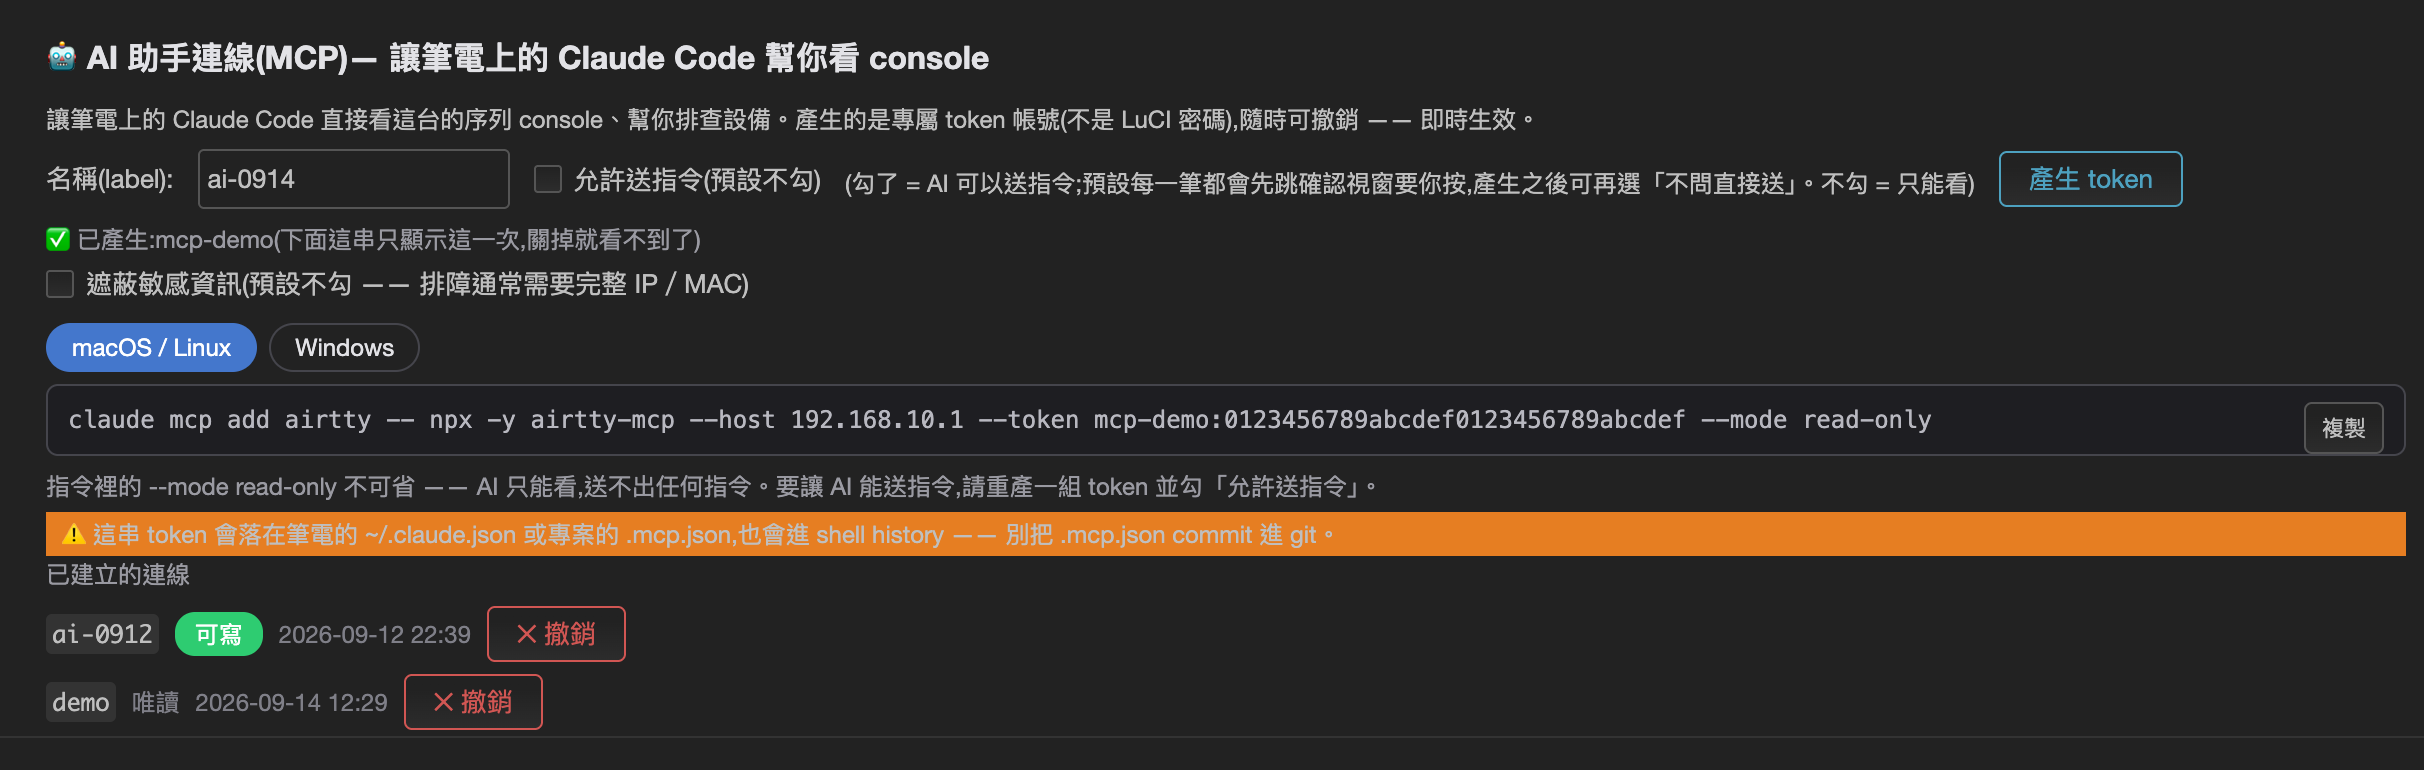
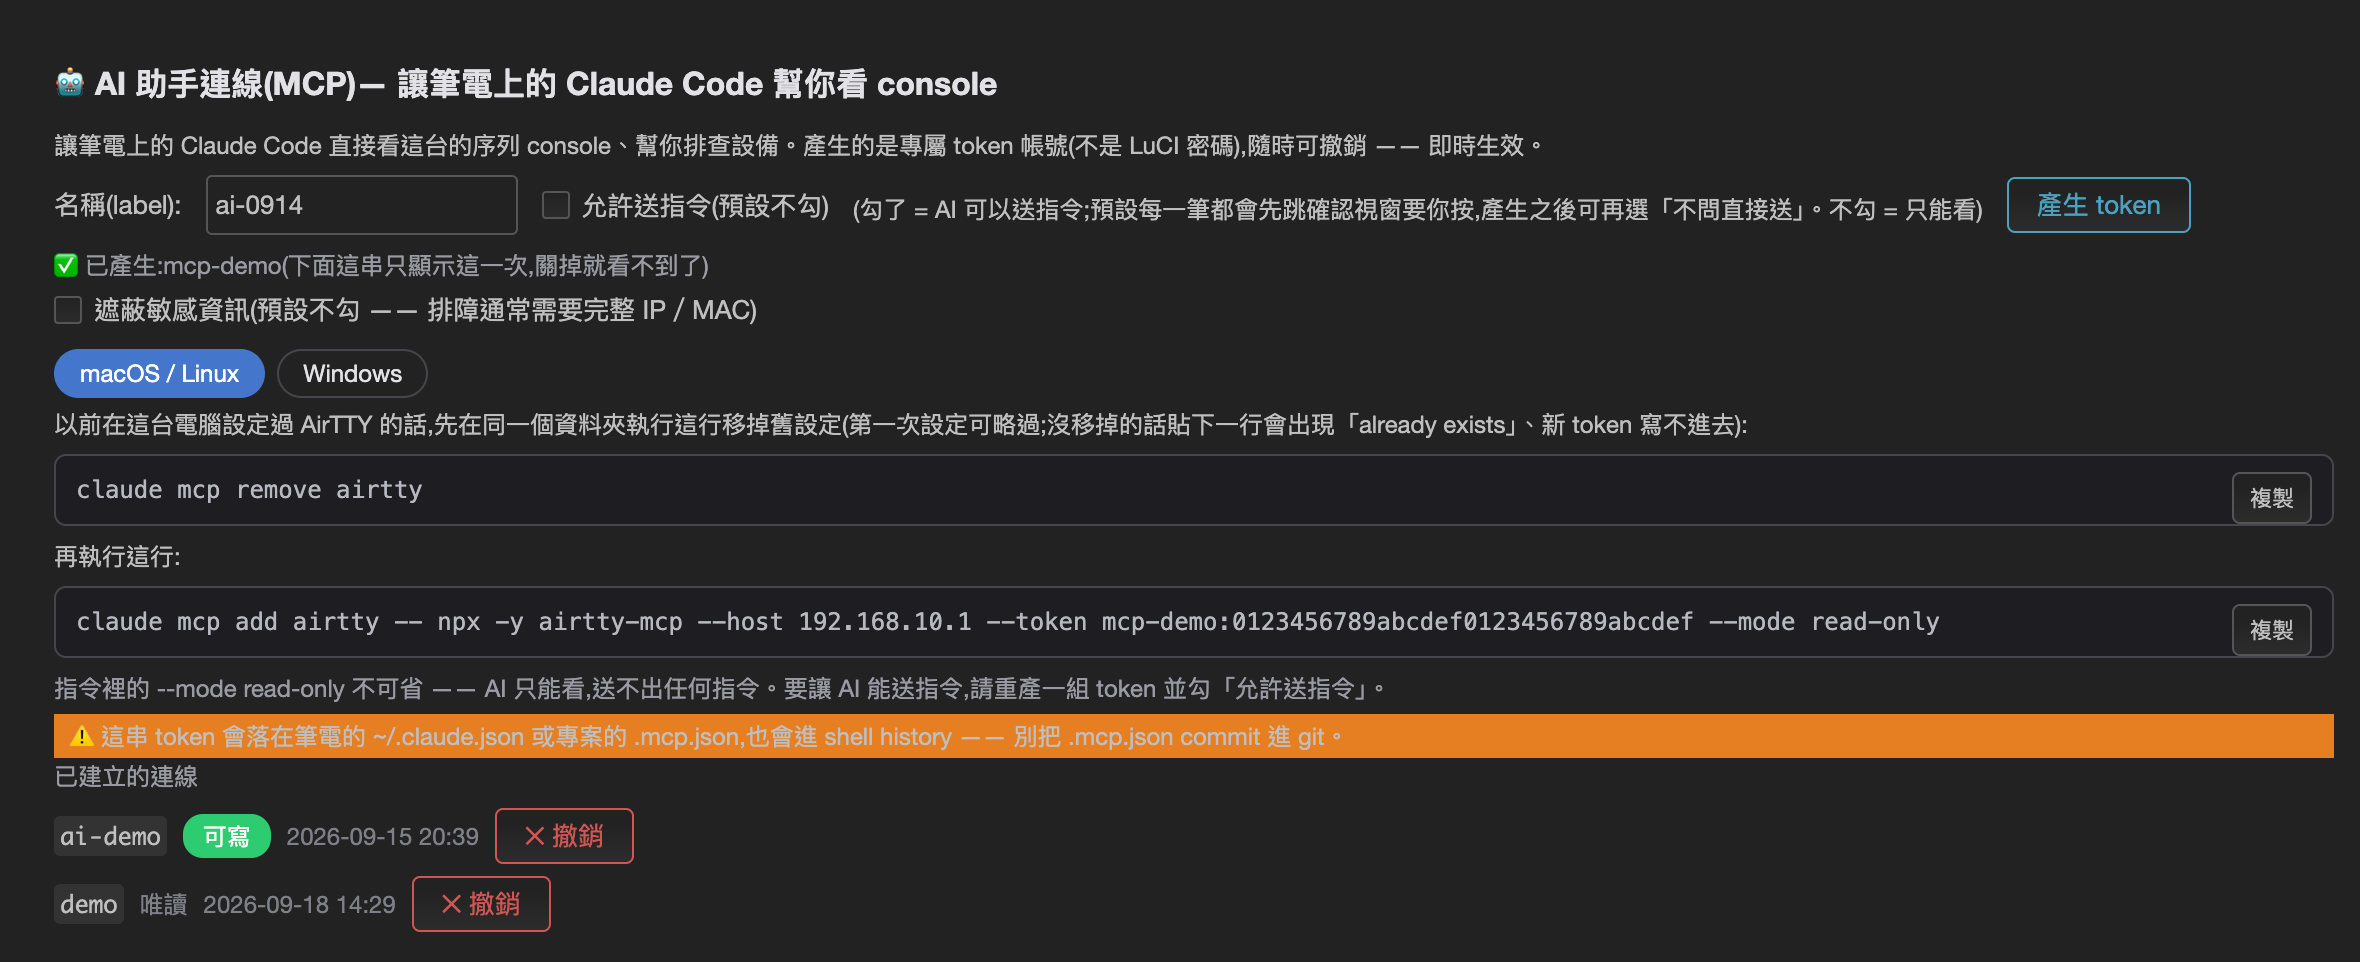
docs: 手冊對應韌體版號 → v1.8.6;新增檔案伺服器大檔上傳說明;MCP 卡截圖改兩行版
- 檔頭與頁尾的對應韌體 v1.8.5 → v1.8.6,更新日期 → 2026-09-29;§6.5 與 README 的
  「目前最新版」同步為 v1.8.6(2026-09-29),改寫成本輪重點而非逐版流水帳。
- §3.3 頁面表「檔案伺服器」列與 §7 新增 FAQ「上傳大檔到檔案伺服器」:v1.8.6 起網頁上傳改分塊,
  單檔預設上限 4 GB(實際受記憶卡剩餘空間限制)、斷線可從中斷處續傳、取消會先清半成品
  (最長約一分鐘,清不掉則 60 分鐘內自動清除);並註明 v1.8.6 之前只適合約 28 MB 以下的小檔。
- README 功能列與「這一輪的重點」同步一句。
- 重拍 images/13-connect-mcp-card.png:MCP 卡現在是兩行指令(先 remove 再 add),各有「複製」;
  token 與連線清單皆為假值。
- 合併 docs/mcp-remove-step(MCP 設定兩步、EHOSTUNREACH 疑難排解)—— fast-forward,無衝突。

Changed region(s): [[0.0, 0.0312, 1.0, 0.9662], [0.928, 0.4675, 0.9898, 0.5922]]

diff --git a/README.md b/README.md
@@ -76,6 +76,7 @@ AirTTY 上、另一端接到交換器／路由器／防火牆／伺服器的 con
   插上（含熱插拔）即自動辨識晶片型號與 USB ID，儀表板直接長出裝置卡；
   鮑率、資料位元、校驗、停止位元、流量控制**全部在網頁上點選設定**，不必打任何指令。
 - **檔案伺服器** —— 把韌體檔上傳到 AirTTY，讓設備自己用 TFTP／HTTP／FTP／SCP 抓檔升級。
+  **v1.8.6 起**網頁上傳支援大檔（單檔預設上限 4 GB，實際受記憶卡剩餘空間限制；斷線可從中斷處續傳），整包映像檔直接從瀏覽器丟上去。
 - **網路工具** —— 用 CDP／LLDP 看「這台接在哪台交換器的哪個埠」。
 - **遠端封包擷取** —— 讓筆電上的 Wireshark 抓 AirTTY 這一側的封包。
 - **一鍵診斷** —— 路徑追蹤、頻寬測試、序列埠狀態、LAN 裝置掃描等現場排查按鈕。
@@ -237,7 +238,7 @@ AirTTY 的定位因此很直接：**用開放硬體與開源軟體，
 功能更新以**單一升級檔**發布（`airtty-update-vX.Y.Z.run`），**不會動到你的設定** ——
 序列埠綁定、連線密碼、WiFi 設定全部保留，升級檔內建 sha256 完整性驗證。
 
-- **目前最新版：v1.8.2**（2026-09-13）。
+- **目前最新版：v1.8.6**（2026-09-29）。
   → [**官方發行頁（含每一版的更新說明）**](https://github.com/AirTTY/airtty.github.io/releases/latest)
 - **線上更新**（最簡單）：儀表板 →「軟體更新」→ **🔍 檢查更新**，
   只要**你的電腦**能上網就查得到新版與更新說明；裝置若已連上游 WiFi，按 **⬆ 線上更新** 即可自行完成。
@@ -246,7 +247,7 @@ AirTTY 的定位因此很直接：**用開放硬體與開源軟體，
   這麼做會讓整套 AirTTY 功能無法啟動（見[使用手冊 §6.6](docs/manual-a1.md)）。
 
 v1.8 這一輪的重點：**AI 助手連進 console（MCP）**、**藍牙端的 Break／鮑率／DTR·RTS 控制通道**、
-**換線自動接上**、**廠牌手動選擇**、**遮蔽更準**。
+**換線自動接上**、**廠牌手動選擇**、**遮蔽更準**、**檔案伺服器大檔上傳（v1.8.6）**。
 
 ---
 
@@ -259,7 +260,7 @@ v1.8 這一輪的重點：**AI 助手連進 console（MCP）**、**藍牙端的 
 | [**A1 硬體規格**](hardware/a1/README.md) | 規格表、外觀與指示燈、支援的序列晶片、使用注意 |
 | [**M2 硬體規劃**](hardware/m2/README.md) | 規劃中機種的已知規格與待確認項目 |
 | [**AI 助手連線（MCP）**](https://www.npmjs.com/package/airtty-mcp) | 筆電端套件 `airtty-mcp`（npm，MIT）；裝置端用法見[手冊 §5.7](docs/manual-a1.md) |
-| [**官方發行頁**](https://github.com/AirTTY/airtty.github.io/releases/latest) | 升級檔下載與每一版的更新說明（目前最新 v1.8.2） |
+| [**官方發行頁**](https://github.com/AirTTY/airtty.github.io/releases/latest) | 升級檔下載與每一版的更新說明（目前最新 v1.8.6） |
 | [**GPL 合規聲明**](gpl/README.md) | 韌體授權說明、對應修改源碼、重建韌體的概要步驟 |
 
 ---
